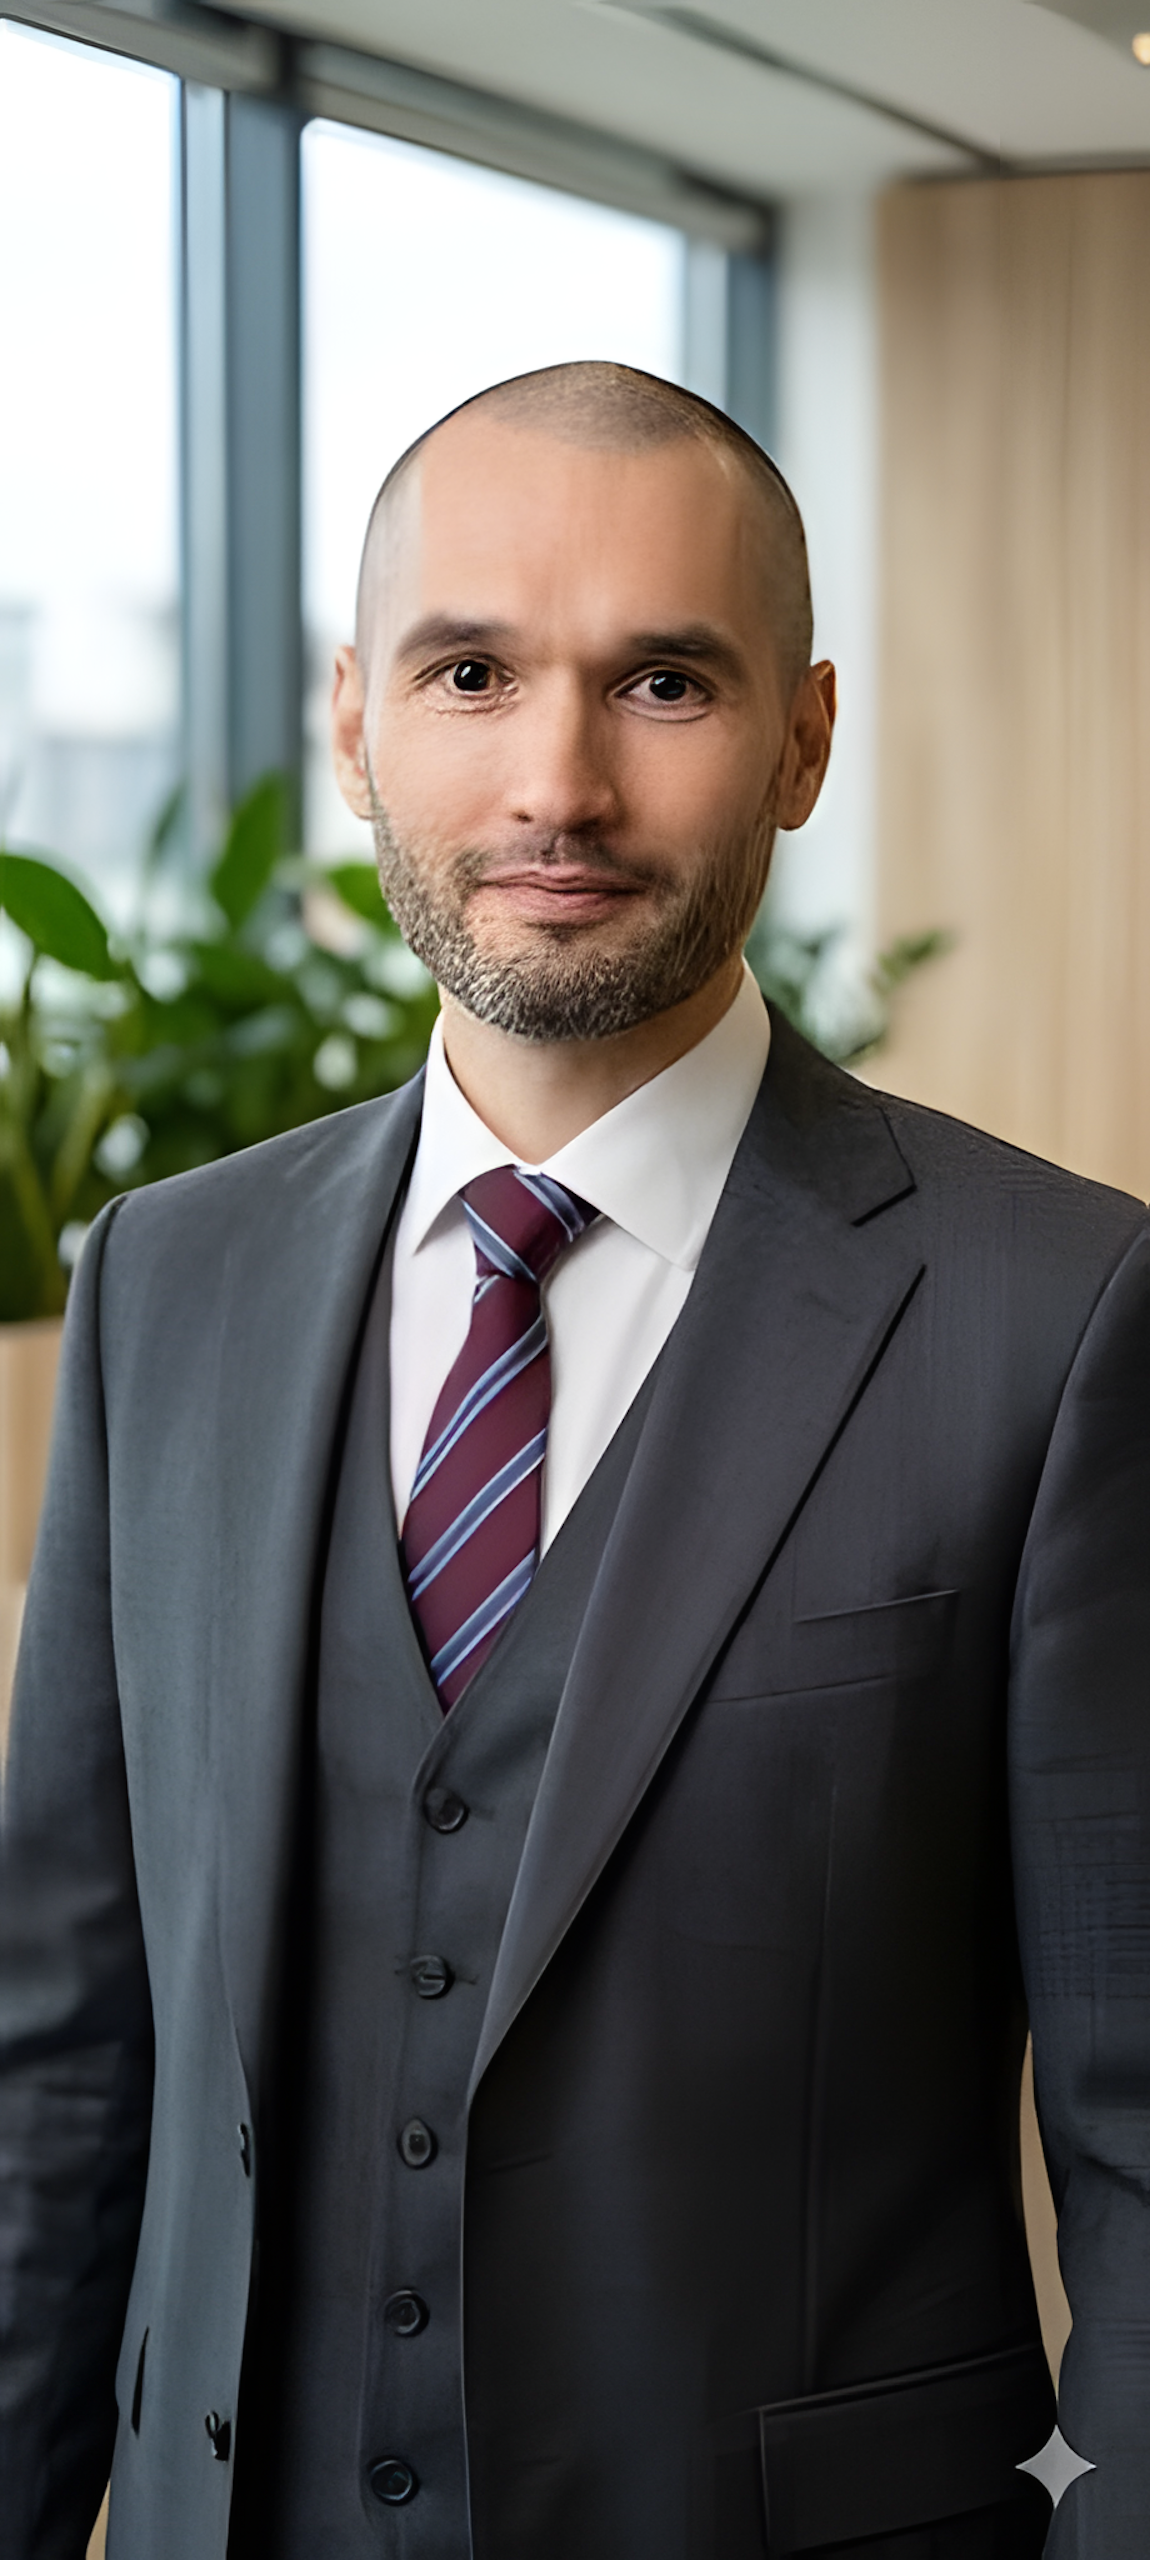
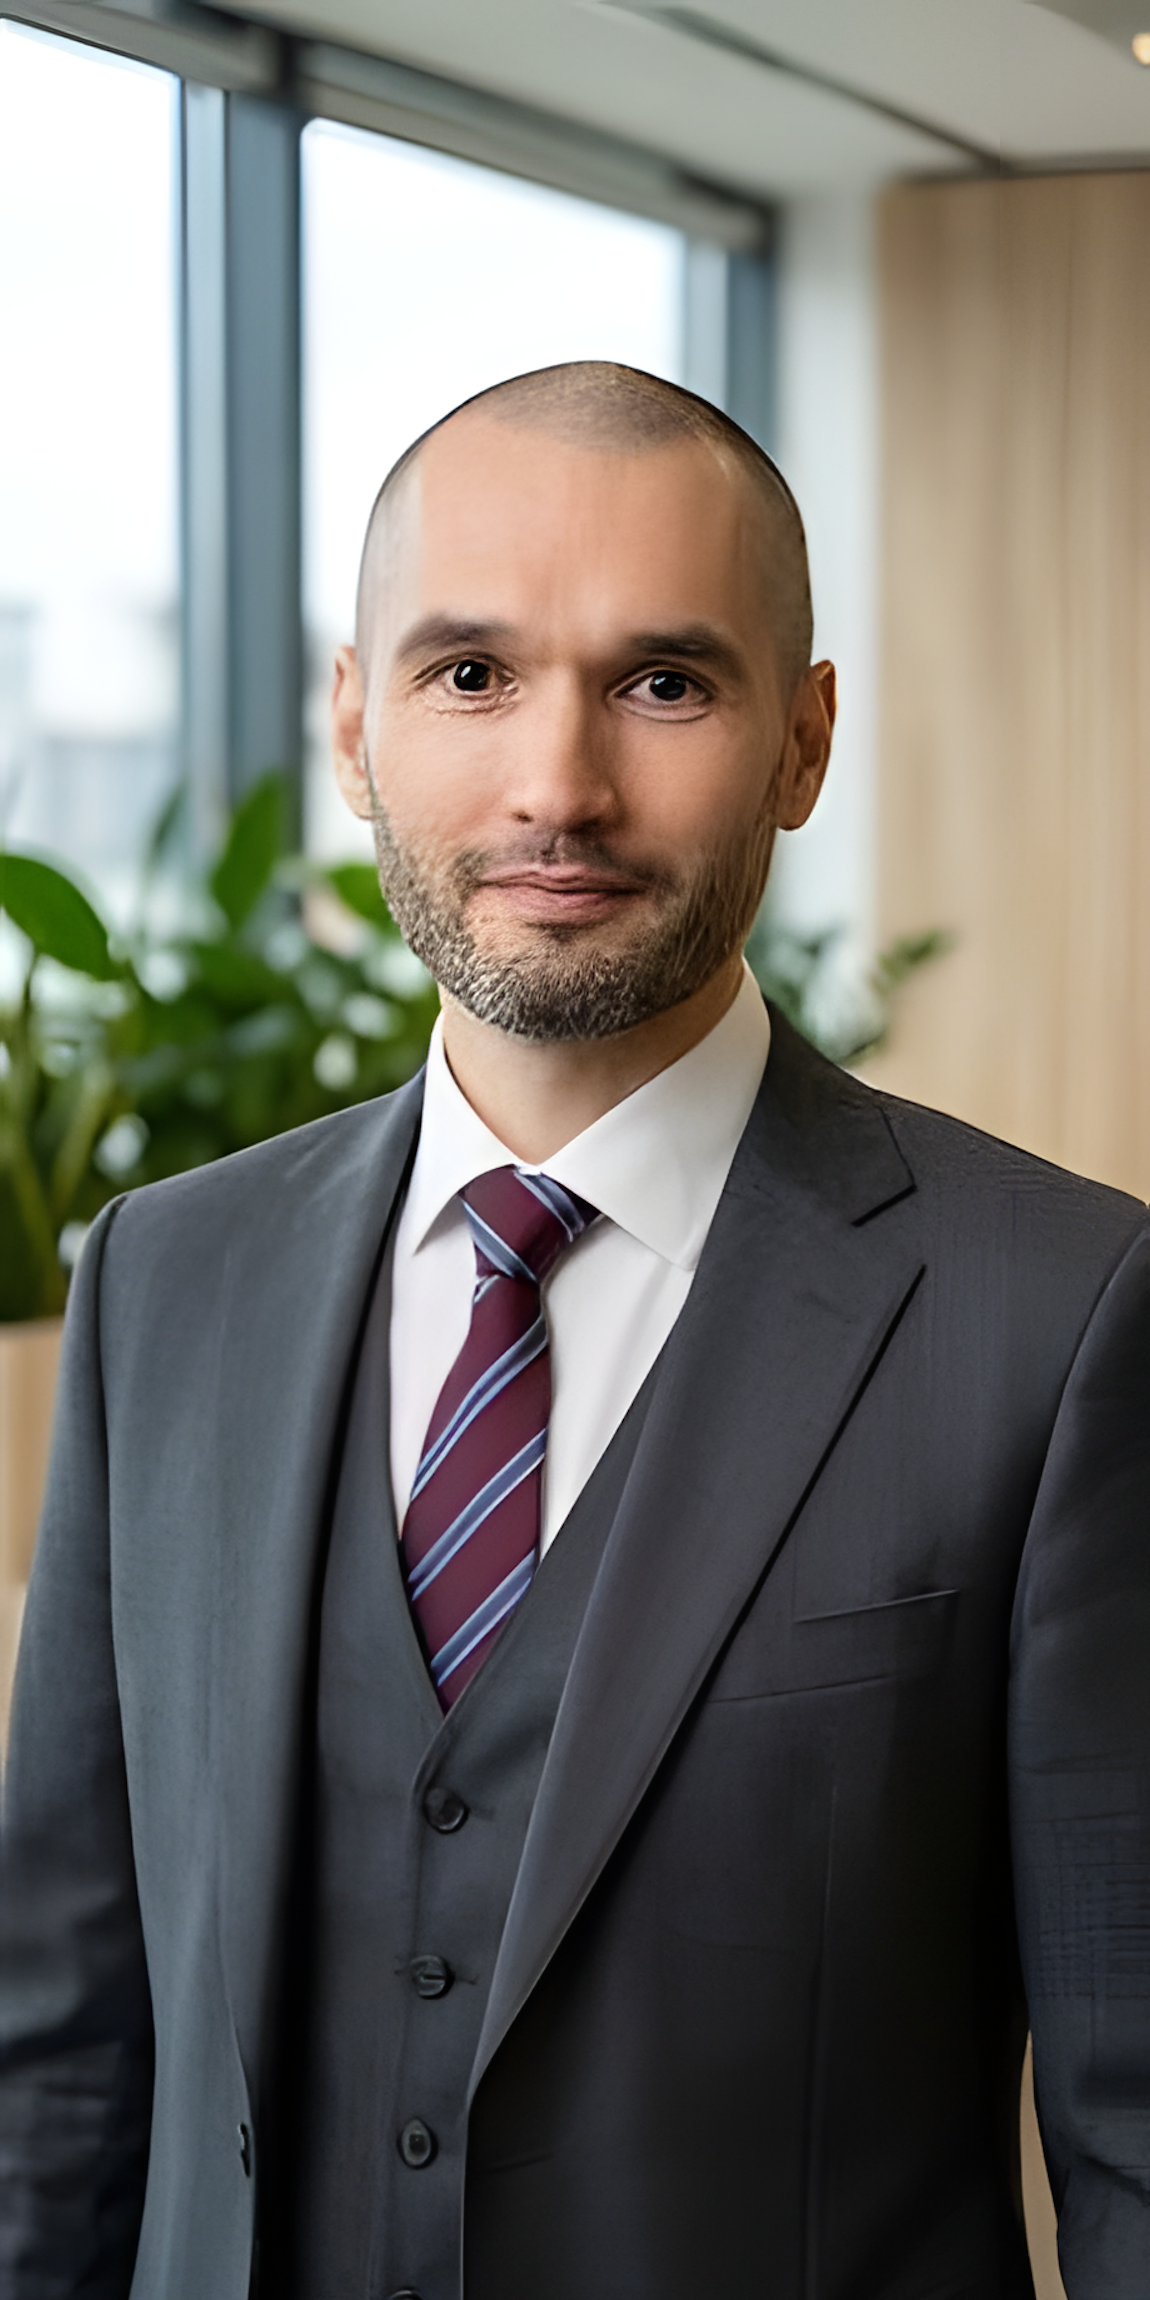
Fix portrait ratio and crop watermark

diff --git a/app/o-kompanii/page.tsx b/app/o-kompanii/page.tsx
@@ -104,7 +104,7 @@ export default function AboutPage() {
             </div>
           </div>
           <div className="contact-box">
-            <img src="../assets/ruslan-gayfutdinov.png" width="1150" height="2560" alt="Руслан Гайфутдинов, FCCA" />
+            <img src="../assets/ruslan-gayfutdinov.png" width="1150" height="2300" alt="Руслан Гайфутдинов, FCCA" />
           </div>
         </section>
 

diff --git a/docs/o-kompanii/index.html b/docs/o-kompanii/index.html
@@ -1,2 +1,2 @@
 <!DOCTYPE html><html lang="ru"><head><meta charSet="utf-8"/><meta name="viewport" content="width=device-width, initial-scale=1"/><link rel="preload" href="../assets/og.png" as="image"/><link rel="preload" href="../assets/ruslan-gayfutdinov.png" as="image"/><link rel="stylesheet" href="../assets/styles.css"><title>О компании Avtarkia и эксперте Руслане Гайфутдинове</title><meta name="description" content="Avtarkia — индивидуальная бизнес-аналитика, финансовые модели и автоматизация отчётности. Эксперт: Руслан Гайфутдинов, FCCA."/><meta property="og:title" content="О компании Avtarkia и эксперте Руслане Гайфутдинове"/><meta property="og:description" content="Индивидуальная бизнес-аналитика, финансовые модели и автоматизация отчётности. Эксперт: Руслан Гайфутдинов, FCCA."/><meta property="og:url" content="https://fiorentinorosso.github.io/avtarkia/o-kompanii/"/><meta property="og:site_name" content="Avtarkia"/><meta property="og:type" content="website"/><meta property="og:locale" content="ru_RU"/><meta property="og:image" content="https://fiorentinorosso.github.io/avtarkia/assets/og.png"/><meta property="og:image:width" content="1200"/><meta property="og:image:height" content="630"/><meta property="og:image:alt" content="Avtarkia — индивидуальная аналитика для бизнеса"/><meta name="twitter:card" content="summary_large_image"/><meta name="twitter:title" content="О компании Avtarkia и эксперте Руслане Гайфутдинове"/><meta name="twitter:description" content="Индивидуальная бизнес-аналитика, финансовые модели и автоматизация отчётности."/><meta name="twitter:image" content="https://fiorentinorosso.github.io/avtarkia/assets/og.png"/><link rel="shortcut icon" href="../assets/favicon.svg"/><link rel="icon" href="../assets/favicon.svg"/><link rel="canonical" href="https://fiorentinorosso.github.io/avtarkia/o-kompanii/"/>
-</head><body><script type="application/ld+json">{"@context":"https://schema.org","@graph":[{"@type":"BreadcrumbList","itemListElement":[{"@type":"ListItem","position":1,"name":"Главная","item":"https://fiorentinorosso.github.io/avtarkia/"},{"@type":"ListItem","position":2,"name":"О компании","item":"https://fiorentinorosso.github.io/avtarkia/o-kompanii/"}]},{"@type":"ProfilePage","mainEntity":{"@id":"https://fiorentinorosso.github.io/avtarkia/o-kompanii/#person"}},{"@type":"Person","@id":"https://fiorentinorosso.github.io/avtarkia/o-kompanii/#person","name":"Руслан Гайфутдинов","honorificSuffix":"FCCA","jobTitle":"Эксперт по финансовой аналитике и автоматизации","image":"https://fiorentinorosso.github.io/avtarkia/assets/ruslan-gayfutdinov.png","url":"https://fiorentinorosso.github.io/avtarkia/o-kompanii/","sameAs":["https://profi.ru/profile/GayfutdinovRV/","https://www.linkedin.com/in/ruslan-gaifutdinov-fcca-670609101/"]}]}</script><header class="topbar"><a class="brand" href="../" aria-label="Avtarkia — на главную"><span class="brand-wordmark">AVTARKIA</span></a><nav class="nav" aria-label="Навигация"><a href="../#approach">Подход</a><a href="../#solutions">Решения</a><a href="../#process">Процесс</a><a href="#top" aria-current="page">О компании</a></nav><a class="top-cta" href="#contact">Обсудить задачу</a></header><main id="top"><section class="hero"><div class="hero-copy"><p class="hero-wordmark">AVTARKIA</p><span class="hero-rule" aria-hidden="true"></span><p class="eyebrow">О компании</p><h1>Финансы, данные и автоматизация в одной рабочей системе</h1><p class="lead">Avtarkia помогает собственникам и руководителям перейти от разрозненных отчётов к проверяемой управленческой картине.</p><div class="hero-actions"><a class="button primary" href="#expert">Об эксперте</a><a class="button secondary" href="#contact">Связаться</a></div><div class="hero-points" aria-label="Ключевые компетенции"><span>Финансовая методология</span><span>Инженерия данных</span><span>Автоматизация контроля</span></div></div><div class="hero-art" aria-hidden="true"><img src="../assets/og.png" alt=""/></div></section><section class="section contact" id="expert"><div><p class="eyebrow">Эксперт</p><h2>Руслан Гайфутдинов, FCCA</h2><p>Специализация — управленческая аналитика, финансовые модели, автоматизация отчётности и контроль качества данных.</p><div class="hero-actions"><a class="button primary" href="https://profi.ru/profile/GayfutdinovRV/" target="_blank" rel="noopener noreferrer">Профиль на Profi.ru</a><a class="button secondary" href="https://www.linkedin.com/in/ruslan-gaifutdinov-fcca-670609101/" target="_blank" rel="noopener noreferrer">LinkedIn</a></div></div><div class="contact-box"><img src="../assets/ruslan-gayfutdinov.png" width="1150" height="2560" alt="Руслан Гайфутдинов, FCCA"/></div></section><section class="section solution"><div class="solution-copy"><p class="eyebrow">Профессиональная основа</p><h2>Финансовая экспертиза и практическая реализация</h2><p>От методики показателей до работающей системы, которую можно проверить на исходных данных.</p></div><div class="solution-list"><div><strong>с 2013 года</strong><p>член ACCA</p></div><div><strong>University of London</strong><p>магистр Professional Accountancy</p></div><div><strong>Финансы + данные</strong><p>финансовые модели, SQL, Python и BI</p></div><div><strong>Контроль качества</strong><p>проверяемые правила, контрольные суммы и допущения</p></div></div></section><section class="section pains"><div class="section-head"><p class="eyebrow">Как строится работа</p><h2>Сначала решение и проверяемые цифры. Потом визуализация.</h2></div><div class="pain-grid"><article><span>01</span><h3>Формулируем вопрос</h3><p>Определяем, какое управленческое решение должно приниматься по результату.</p></article><article><span>02</span><h3>Фиксируем методику</h3><p>Согласуем источники, правила расчёта, допущения и контрольные суммы.</p></article><article><span>03</span><h3>Подтверждаем процесс</h3><p>Визуализация появляется после проверки цифр, автоматизация — после подтверждения повторяемости.</p></article></div></section><section class="section intro"><div class="section-head"><p class="eyebrow">Подход Avtarkia</p><h2>На стыке финансов, данных и реализации</h2></div><p class="wide-text">Финансовая модель задаёт смысл показателей, инженерный контур обеспечивает повторяемую загрузку, а контроль качества связывает итог с исходными операциями. Если правило нельзя объяснить пользователю и проверить на исходной строке, оно не считается готовым.</p></section><section class="section compare"><div class="section-head"><p class="eyebrow">Компетенции и ответственность</p><h2>Практическая аналитика без подмены формальных ролей</h2></div><div class="compare-grid"><div class="muted-panel"><h3>Практический фокус</h3><ul><li>Управленческая отчётность.</li><li>Финансовые модели.</li><li>SQL, Python и BI.</li><li>Автоматизация повторяемых процессов.</li></ul></div><div class="accent-panel"><h3>Граница ответственности</h3><ul><li>Avtarkia не заменяет аудитора или налогового консультанта.</li><li>Формальная ответственность остаётся у профильных специалистов.</li><li>Результаты проектов публикуются только с учётом конфиденциальности клиента.</li></ul></div></div></section><section class="section result"><div class="result-card"><p class="eyebrow">Как подтверждается результат</p><h2>Каждая цифра должна выдерживать проверку</h2><div class="result-grid"><div><strong>Контрольные суммы</strong><span>сопоставляются с выбранным первичным источником</span></div><div><strong>Формулы</strong><span>проверяются на обычных и пограничных сценариях</span></div><div><strong>Описание показателей</strong><span>включает ключевые правила и допущения</span></div><div><strong>Исправление ошибок</strong><span>делается в общем правиле на воспроизводимом примере</span></div></div></div></section><section class="section solution"><div class="solution-copy"><p class="eyebrow">Публичные реквизиты</p><h2>Прозрачная основа сотрудничества</h2><p>Банковские реквизиты и адрес предоставляются сторонам договора при необходимости.</p></div><div class="solution-list"><div><strong>Исполнитель</strong><p>Гайфутдинов Руслан Васильевич</p></div><div><strong>Статус</strong><p>Плательщик налога на профессиональный доход</p></div><div><strong>ИНН</strong><p>165047079359</p></div><div><strong>Контакт</strong><p><a href="mailto:[email redacted]">[email redacted]</a></p></div></div></section><section class="section contact" id="contact"><div><p class="eyebrow">Связаться</p><h2>Разберём вашу задачу</h2><p>Определим первый полезный контур аналитики, источники данных и правила расчёта.</p></div><div class="contact-box"><h3>Удобный способ связи</h3><a class="button primary full" href="https://t.me/Nfrtum" target="_blank" rel="noopener noreferrer">Обсудить проект в Telegram</a><nav class="contact-methods contact-methods-main" aria-label="Способы связи"><a href="https://t.me/Nfrtum" target="_blank" rel="noopener noreferrer"><span class="contact-mark" aria-hidden="true">T</span><span><strong>Telegram</strong><small>@Nfrtum</small></span></a><a href="https://wa.me/qr/QME4Q3PSIIAJF1" target="_blank" rel="noopener noreferrer"><span class="contact-mark" aria-hidden="true">W</span><span><strong>WhatsApp</strong><small>Написать</small></span></a><a href="https://max.ru/u/f9LHodD0cOLAjqkoKX8pl9Hv4TiIWUYnNJDe6ZqmUyAtlSqjYCbKffk9API" target="_blank" rel="noopener noreferrer"><span class="contact-mark" aria-hidden="true">M</span><span><strong>MAX</strong><small>Написать</small></span></a><a href="mailto:[email redacted]"><span class="contact-mark" aria-hidden="true">@</span><span><strong>E-mail</strong><small>[email redacted]</small></span></a></nav></div></section></main><footer class="footer"><span>Avtarkia</span><span><a href="../">Главная</a> · <a href="mailto:[email redacted]">[email redacted]</a></span></footer></body></html>
+</head><body><script type="application/ld+json">{"@context":"https://schema.org","@graph":[{"@type":"BreadcrumbList","itemListElement":[{"@type":"ListItem","position":1,"name":"Главная","item":"https://fiorentinorosso.github.io/avtarkia/"},{"@type":"ListItem","position":2,"name":"О компании","item":"https://fiorentinorosso.github.io/avtarkia/o-kompanii/"}]},{"@type":"ProfilePage","mainEntity":{"@id":"https://fiorentinorosso.github.io/avtarkia/o-kompanii/#person"}},{"@type":"Person","@id":"https://fiorentinorosso.github.io/avtarkia/o-kompanii/#person","name":"Руслан Гайфутдинов","honorificSuffix":"FCCA","jobTitle":"Эксперт по финансовой аналитике и автоматизации","image":"https://fiorentinorosso.github.io/avtarkia/assets/ruslan-gayfutdinov.png","url":"https://fiorentinorosso.github.io/avtarkia/o-kompanii/","sameAs":["https://profi.ru/profile/GayfutdinovRV/","https://www.linkedin.com/in/ruslan-gaifutdinov-fcca-670609101/"]}]}</script><header class="topbar"><a class="brand" href="../" aria-label="Avtarkia — на главную"><span class="brand-wordmark">AVTARKIA</span></a><nav class="nav" aria-label="Навигация"><a href="../#approach">Подход</a><a href="../#solutions">Решения</a><a href="../#process">Процесс</a><a href="#top" aria-current="page">О компании</a></nav><a class="top-cta" href="#contact">Обсудить задачу</a></header><main id="top"><section class="hero"><div class="hero-copy"><p class="hero-wordmark">AVTARKIA</p><span class="hero-rule" aria-hidden="true"></span><p class="eyebrow">О компании</p><h1>Финансы, данные и автоматизация в одной рабочей системе</h1><p class="lead">Avtarkia помогает собственникам и руководителям перейти от разрозненных отчётов к проверяемой управленческой картине.</p><div class="hero-actions"><a class="button primary" href="#expert">Об эксперте</a><a class="button secondary" href="#contact">Связаться</a></div><div class="hero-points" aria-label="Ключевые компетенции"><span>Финансовая методология</span><span>Инженерия данных</span><span>Автоматизация контроля</span></div></div><div class="hero-art" aria-hidden="true"><img src="../assets/og.png" alt=""/></div></section><section class="section contact" id="expert"><div><p class="eyebrow">Эксперт</p><h2>Руслан Гайфутдинов, FCCA</h2><p>Специализация — управленческая аналитика, финансовые модели, автоматизация отчётности и контроль качества данных.</p><div class="hero-actions"><a class="button primary" href="https://profi.ru/profile/GayfutdinovRV/" target="_blank" rel="noopener noreferrer">Профиль на Profi.ru</a><a class="button secondary" href="https://www.linkedin.com/in/ruslan-gaifutdinov-fcca-670609101/" target="_blank" rel="noopener noreferrer">LinkedIn</a></div></div><div class="contact-box"><img src="../assets/ruslan-gayfutdinov.png" width="1150" height="2300" alt="Руслан Гайфутдинов, FCCA"/></div></section><section class="section solution"><div class="solution-copy"><p class="eyebrow">Профессиональная основа</p><h2>Финансовая экспертиза и практическая реализация</h2><p>От методики показателей до работающей системы, которую можно проверить на исходных данных.</p></div><div class="solution-list"><div><strong>с 2013 года</strong><p>член ACCA</p></div><div><strong>University of London</strong><p>магистр Professional Accountancy</p></div><div><strong>Финансы + данные</strong><p>финансовые модели, SQL, Python и BI</p></div><div><strong>Контроль качества</strong><p>проверяемые правила, контрольные суммы и допущения</p></div></div></section><section class="section pains"><div class="section-head"><p class="eyebrow">Как строится работа</p><h2>Сначала решение и проверяемые цифры. Потом визуализация.</h2></div><div class="pain-grid"><article><span>01</span><h3>Формулируем вопрос</h3><p>Определяем, какое управленческое решение должно приниматься по результату.</p></article><article><span>02</span><h3>Фиксируем методику</h3><p>Согласуем источники, правила расчёта, допущения и контрольные суммы.</p></article><article><span>03</span><h3>Подтверждаем процесс</h3><p>Визуализация появляется после проверки цифр, автоматизация — после подтверждения повторяемости.</p></article></div></section><section class="section intro"><div class="section-head"><p class="eyebrow">Подход Avtarkia</p><h2>На стыке финансов, данных и реализации</h2></div><p class="wide-text">Финансовая модель задаёт смысл показателей, инженерный контур обеспечивает повторяемую загрузку, а контроль качества связывает итог с исходными операциями. Если правило нельзя объяснить пользователю и проверить на исходной строке, оно не считается готовым.</p></section><section class="section compare"><div class="section-head"><p class="eyebrow">Компетенции и ответственность</p><h2>Практическая аналитика без подмены формальных ролей</h2></div><div class="compare-grid"><div class="muted-panel"><h3>Практический фокус</h3><ul><li>Управленческая отчётность.</li><li>Финансовые модели.</li><li>SQL, Python и BI.</li><li>Автоматизация повторяемых процессов.</li></ul></div><div class="accent-panel"><h3>Граница ответственности</h3><ul><li>Avtarkia не заменяет аудитора или налогового консультанта.</li><li>Формальная ответственность остаётся у профильных специалистов.</li><li>Результаты проектов публикуются только с учётом конфиденциальности клиента.</li></ul></div></div></section><section class="section result"><div class="result-card"><p class="eyebrow">Как подтверждается результат</p><h2>Каждая цифра должна выдерживать проверку</h2><div class="result-grid"><div><strong>Контрольные суммы</strong><span>сопоставляются с выбранным первичным источником</span></div><div><strong>Формулы</strong><span>проверяются на обычных и пограничных сценариях</span></div><div><strong>Описание показателей</strong><span>включает ключевые правила и допущения</span></div><div><strong>Исправление ошибок</strong><span>делается в общем правиле на воспроизводимом примере</span></div></div></div></section><section class="section solution"><div class="solution-copy"><p class="eyebrow">Публичные реквизиты</p><h2>Прозрачная основа сотрудничества</h2><p>Банковские реквизиты и адрес предоставляются сторонам договора при необходимости.</p></div><div class="solution-list"><div><strong>Исполнитель</strong><p>Гайфутдинов Руслан Васильевич</p></div><div><strong>Статус</strong><p>Плательщик налога на профессиональный доход</p></div><div><strong>ИНН</strong><p>165047079359</p></div><div><strong>Контакт</strong><p><a href="mailto:[email redacted]">[email redacted]</a></p></div></div></section><section class="section contact" id="contact"><div><p class="eyebrow">Связаться</p><h2>Разберём вашу задачу</h2><p>Определим первый полезный контур аналитики, источники данных и правила расчёта.</p></div><div class="contact-box"><h3>Удобный способ связи</h3><a class="button primary full" href="https://t.me/Nfrtum" target="_blank" rel="noopener noreferrer">Обсудить проект в Telegram</a><nav class="contact-methods contact-methods-main" aria-label="Способы связи"><a href="https://t.me/Nfrtum" target="_blank" rel="noopener noreferrer"><span class="contact-mark" aria-hidden="true">T</span><span><strong>Telegram</strong><small>@Nfrtum</small></span></a><a href="https://wa.me/qr/QME4Q3PSIIAJF1" target="_blank" rel="noopener noreferrer"><span class="contact-mark" aria-hidden="true">W</span><span><strong>WhatsApp</strong><small>Написать</small></span></a><a href="https://max.ru/u/f9LHodD0cOLAjqkoKX8pl9Hv4TiIWUYnNJDe6ZqmUyAtlSqjYCbKffk9API" target="_blank" rel="noopener noreferrer"><span class="contact-mark" aria-hidden="true">M</span><span><strong>MAX</strong><small>Написать</small></span></a><a href="mailto:[email redacted]"><span class="contact-mark" aria-hidden="true">@</span><span><strong>E-mail</strong><small>[email redacted]</small></span></a></nav></div></section></main><footer class="footer"><span>Avtarkia</span><span><a href="../">Главная</a> · <a href="mailto:[email redacted]">[email redacted]</a></span></footer></body></html>

diff --git a/app/globals.css b/app/globals.css
@@ -70,6 +70,7 @@ body {
 img {
   display: block;
   max-width: 100%;
+  height: auto;
 }
 
 main,

diff --git a/docs/assets/styles.css b/docs/assets/styles.css
@@ -70,6 +70,7 @@ body {
 img {
   display: block;
   max-width: 100%;
+  height: auto;
 }
 
 main,